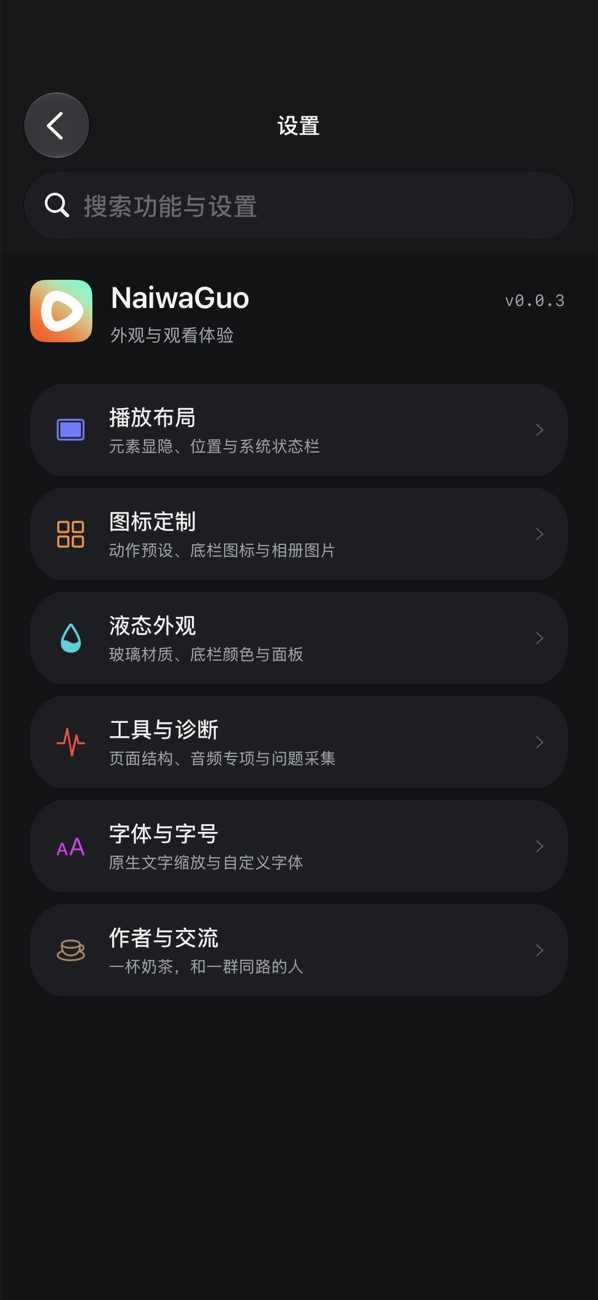
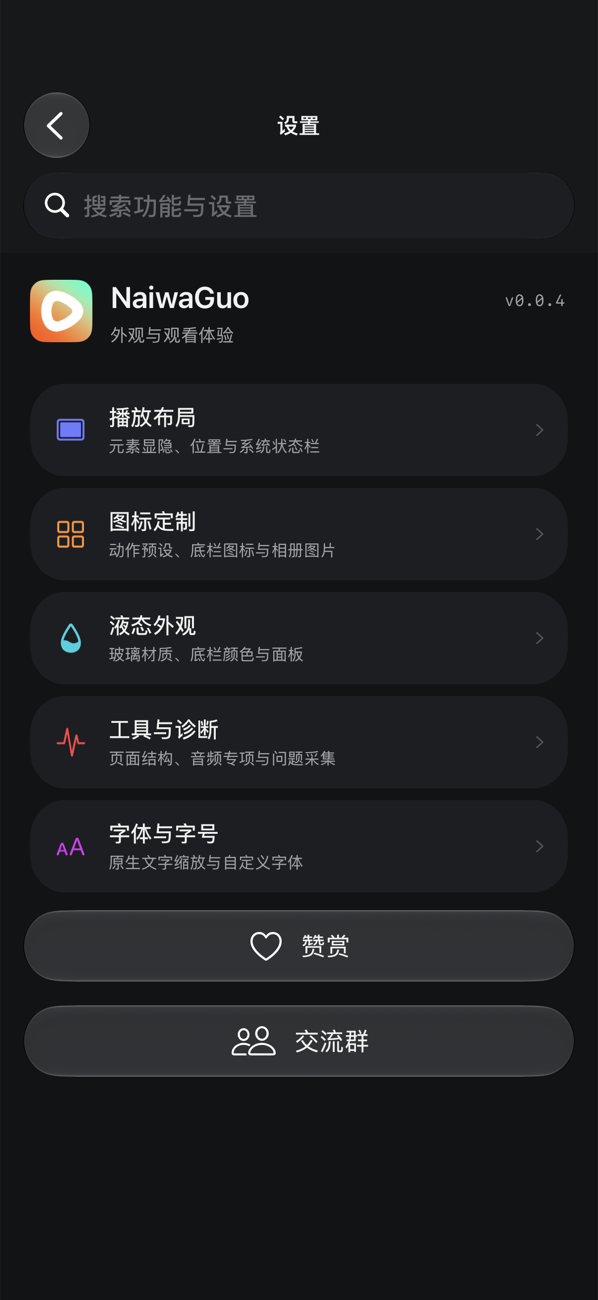
Add liquid support footer and keep deb packages local

diff --git a/src/NaiwaGuo.m b/src/NaiwaGuo.m
@@ -18,7 +18,7 @@ void NGDRegisterFLEXKingProvider(void);
 #import <math.h>
 
 static NSString *const NGPluginName = @"NaiwaGuo";
-static NSString *const NGVersion = @"0.0.3";
+static NSString *const NGVersion = @"0.0.4";
 static NSString *const NGHostBundleIdentifier = @"com.phoenix.video";
 static NSString *const NGHostExecutable = @"Eggplant";
 static NSString *const NGPrefix = @"com.naiwaguo.";
@@ -2015,10 +2015,7 @@ static NSArray<NSDictionary *> *NGSettingsGroups(void) {
         @{@"title": @"字体与字号", @"subtitle": @"原生文字缩放与自定义字体", @"symbol": @"textformat.size", @"color": UIColor.systemPurpleColor, @"rows": @[
             NGSettingRow(@"全局字号与自定义字体", @"比例调节、已安装字体和字体文件导入", @"textformat.size", nil, @"typography")
         ]},
-        @{@"title": @"作者与交流", @"subtitle": @"一杯奶茶，和一群同路的人", @"symbol": @"cup.and.saucer", @"color": UIColor.systemBrownColor, @"rows": @[
-            NGSettingRow(@"请作者喝杯奶茶吧", @"感谢支持每一次更新", @"cup.and.saucer", nil, @"sponsor"),
-            NGSettingRow(@"交流群", @"QQ 交流群 · TG 通知群与交流群", @"person.2", nil, @"community")
-        ]}
+
     ];
 }
 
@@ -2103,6 +2100,7 @@ static UIViewController *NGSettingsDestinationForAction(NSString *action) {
 @property(nonatomic, strong) NSArray<NSDictionary *> *searchResults;
 @property(nonatomic, copy) NSDictionary *pendingSearchMatch;
 @property(nonatomic, strong) NGBrandHeaderView *brandHeader;
+@property(nonatomic, strong) UIView *supportFooter;
 @end
 
 @implementation NGSettingsViewController
@@ -2133,7 +2131,7 @@ static UIViewController *NGSettingsDestinationForAction(NSString *action) {
     self.definesPresentationContext = YES;
     self.groups = NGSettingsGroups();
     self.searchResults = @[];
-    self.tableView.tableFooterView = [[UIView alloc] initWithFrame:CGRectZero];
+    [self installSupportFooter];
 }
 - (void)viewWillAppear:(BOOL)animated {
     [super viewWillAppear:animated];
@@ -2142,6 +2140,7 @@ static UIViewController *NGSettingsDestinationForAction(NSString *action) {
 }
 - (void)viewDidLayoutSubviews {
     [super viewDidLayoutSubviews];
+    [self layoutSupportFooter];
     if (self.tableView.tableHeaderView == self.brandHeader) {
         CGFloat width = self.tableView.bounds.size.width;
         CGFloat height = 80 + MAX(0,self.brandHeader.titleLabel.font.pointSize-20)*2;
@@ -2151,6 +2150,55 @@ static UIViewController *NGSettingsDestinationForAction(NSString *action) {
         }
     }
 }
+- (void)installSupportFooter {
+    UIView *footer = [[UIView alloc] initWithFrame:CGRectMake(0, 0, self.tableView.bounds.size.width, 136)];
+    footer.backgroundColor = UIColor.clearColor; footer.accessibilityIdentifier = @"NaiwaGuo.Settings.SupportFooter";
+    UIStackView *stack = [UIStackView new]; stack.axis = UILayoutConstraintAxisVertical; stack.spacing = 16;
+    stack.translatesAutoresizingMaskIntoConstraints = NO; [footer addSubview:stack];
+    NSArray *items = @[
+        @[@"赞赏", @"heart", @"sponsor"],
+        @[@"交流群", @"person.2", @"community"]
+    ];
+    for (NSArray *item in items) {
+        UIButton *button = [UIButton buttonWithType:UIButtonTypeSystem];
+        if (@available(iOS 26.0, *)) button.configuration = [UIButtonConfiguration glassButtonConfiguration];
+        else {
+            UIButtonConfiguration *fallback = [UIButtonConfiguration tintedButtonConfiguration];
+            fallback.background.backgroundColor = [NGSettingsSurface() colorWithAlphaComponent:0.72];
+            fallback.background.cornerRadius = 28; button.configuration = fallback;
+        }
+        UIButtonConfiguration *configuration = button.configuration;
+        configuration.title = item[0]; configuration.image = [UIImage systemImageNamed:item[1]];
+        configuration.imagePadding = 10; configuration.baseForegroundColor = NGSettingsInk();
+        configuration.contentInsets = NSDirectionalEdgeInsetsMake(13, 24, 13, 24);
+        button.configuration = configuration; button.accessibilityIdentifier = [@"NaiwaGuo.Settings.Support." stringByAppendingString:item[2]];
+        button.accessibilityLabel = item[0]; button.tag = [item[2] isEqualToString:@"sponsor"] ? 1 : 2;
+        [button addTarget:self action:@selector(supportFooterTapped:) forControlEvents:UIControlEventTouchUpInside];
+        [stack addArrangedSubview:button]; [button.heightAnchor constraintEqualToConstant:48].active = YES;
+    }
+    [NSLayoutConstraint activateConstraints:@[
+        [stack.leadingAnchor constraintEqualToAnchor:footer.leadingAnchor constant:16],
+        [stack.trailingAnchor constraintEqualToAnchor:footer.trailingAnchor constant:-16],
+        [stack.topAnchor constraintEqualToAnchor:footer.topAnchor constant:8],
+        [stack.bottomAnchor constraintEqualToAnchor:footer.bottomAnchor constant:-16]
+    ]];
+    self.tableView.tableFooterView = footer; self.supportFooter = footer;
+}
+- (void)layoutSupportFooter {
+    UIView *footer = self.supportFooter; if (!footer) return;
+    CGFloat width = self.tableView.bounds.size.width; if (width <= 0) return;
+    CGFloat height = 136;
+    if (footer.frame.size.width != width || footer.frame.size.height != height) {
+        footer.frame = CGRectMake(0, 0, width, height); self.tableView.tableFooterView = footer;
+    }
+}
+- (void)supportFooterTapped:(UIButton *)button {
+    if (self.navigationController.topViewController != self || self.navigationController.transitionCoordinator) return;
+    NGSettingsFeedback();
+    NSString *action = button.tag == 1 ? @"sponsor" : @"community";
+    UIViewController *destination = NGSettingsDestinationForAction(action);
+    if (destination) [self.navigationController pushViewController:destination animated:YES];
+}
 - (void)close {
     if (self.navigationController.viewControllers.firstObject != self) [self.navigationController popViewControllerAnimated:YES];
     else [self dismissViewControllerAnimated:YES completion:nil];
@@ -2158,7 +2206,7 @@ static UIViewController *NGSettingsDestinationForAction(NSString *action) {
 - (BOOL)isSearching { return self.navigationItem.searchController.isActive && self.navigationItem.searchController.searchBar.text.length > 0; }
 - (void)updateSearchResultsForSearchController:(UISearchController *)searchController {
     NSString *query = [searchController.searchBar.text stringByTrimmingCharactersInSet:NSCharacterSet.whitespaceAndNewlineCharacterSet];
-    if (!query.length) { self.searchResults = @[]; [self.tableView reloadData]; return; }
+    if (!query.length) { self.searchResults = @[]; self.tableView.tableFooterView = self.supportFooter; [self.tableView reloadData]; return; }
     NSMutableArray *matches = [NSMutableArray array];
     [self.groups enumerateObjectsUsingBlock:^(NSDictionary *group, NSUInteger groupIndex, BOOL *stopGroup) {
         for (NSDictionary *row in group[@"rows"]) {
@@ -2171,7 +2219,16 @@ static UIViewController *NGSettingsDestinationForAction(NSString *action) {
             }
         }
     }];
+    NSArray *supportRows = @[
+        NGSettingRow(@"赞赏", @"请作者喝杯奶茶吧", @"heart", nil, @"sponsor"),
+        NGSettingRow(@"交流群", @"QQ 交流群 · TG 通知群与交流群 · Telegram", @"person.2", nil, @"community")
+    ];
+    for (NSDictionary *row in supportRows) {
+        NSString *terms = [NSString stringWithFormat:@"%@ %@ %@",row[@"title"],row[@"subtitle"],[row[@"action"] isEqualToString:@"community"] ? @"TG 交流群" : @""];
+        if ([terms localizedCaseInsensitiveContainsString:query]) [matches addObject:@{@"group":@0,@"row":row,@"groupTitle":@"设置底部"}];
+    }
     self.searchResults = matches;
+    self.tableView.tableFooterView = [self isSearching] ? nil : self.supportFooter;
     [self.tableView reloadData];
 }
 - (NSInteger)numberOfSectionsInTableView:(UITableView *)tableView {
@@ -2234,7 +2291,9 @@ static UIViewController *NGSettingsDestinationForAction(NSString *action) {
     [self.navigationController pushViewController:destination animated:YES];
 }
 - (void)didDismissSearchController:(UISearchController *)searchController {
-    if (searchController != self.navigationItem.searchController || !self.pendingSearchMatch) return;
+    if (searchController != self.navigationItem.searchController) return;
+    self.tableView.tableFooterView = self.supportFooter;
+    if (!self.pendingSearchMatch) return;
     __weak typeof(self) weakSelf = self;
     // Let UIKit finish its own navigation-bar cleanup before starting the next transition.
     dispatch_async(dispatch_get_main_queue(), ^{ [weakSelf openPendingSearchResult]; });

diff --git a/src/Debug/NGDKeys.h b/src/Debug/NGDKeys.h
@@ -1,4 +1,4 @@
 #pragma once
 #import <Foundation/Foundation.h>
-#define NGD_VERSION @"0.0.3"
+#define NGD_VERSION @"0.0.4"
 #define NGDKeyDebugInspectorEnabled @"com.naiwaguo.debug.hud"

diff --git a/README-中文.md b/README-中文.md
@@ -2,7 +2,7 @@
 
 红果短剧 iOS 原生界面定制插件。简洁设置、跟随系统浅深色、彩色功能图标与黄绿色控件点缀。
 
-**当前版本：0.0.3 · 预发布，真机效果待补充。** 公开版本从 0.0.1 开始编号。基于红果 7.4.3 接口适配，目标为 com.phoenix.video / Eggplant。
+**当前版本：0.0.4 · 预发布，真机效果待补充。** 公开版本从 0.0.1 开始编号。基于红果 7.4.3 接口适配，目标为 com.phoenix.video / Eggplant。
 
 [下载版本](https://github.com/XIaodou0416/NaiwaGuo/releases) · [安装说明](INSTALL.md) · [验证记录](docs/VALIDATION.md) · [免责声明](DISCLAIMER.md)
 
@@ -24,7 +24,7 @@
 
 ## 功能界面
 
-以下是 **0.0.3 在 iOS 模拟器中实际运行的设置界面**，不代表红果真机效果。底栏演示使用合成背景。
+以下是 **0.0.4 在 iOS 模拟器中实际运行的设置界面**，不代表红果真机效果。底栏演示使用合成背景。
 
 <table>
 <tr><td align="center">设置 · 浅色</td><td align="center">设置 · 深色</td><td align="center">底栏与收缩</td></tr>
@@ -41,7 +41,7 @@
 
 **等待作者后续提供真机截图或录屏。** 收到后补充机型、iOS、红果及插件版本，再更新验证结论。目前没有把模拟器截图标成真机效果。
 
-## 0.0.3 更新
+## 0.0.4 更新
 
 - 处理字体重复写回与重入，避免在每次布局中反复应用字体；增加“我的 → 设置 → 字体”压力导航验证。
 - 扩展合集黑角识别，覆盖嵌套播放器及延迟设置的图片/尺寸，关闭功能或视图复用后恢复。
@@ -49,7 +49,7 @@
 - 移植 DYKiller 底栏普通/清透材质、原生收缩、尺寸及内容设置，独立圆钮改为红果搜索。
 - 替换旧调试入口和导出流程，加入同源页面/音频专项导出与红果适配探针。
 
-- 保留红果原图标，功能分类改为彩色；移除底部说明，按 NaiwaEase 布局重做赞赏与交流邀请页面。
+- 保留红果原图标，功能分类改为彩色；移除底部说明与“作者与交流”分类；设置底部改为“赞赏”“交流群”两个液态按钮，并按 NaiwaEase 布局重做内页。
 
 修复经过模拟宿主与原生 UIKit 回归；红果真机业务场景仍待反馈。
 
@@ -64,7 +64,7 @@
 
 ## 安装与开发
 
-发布页提供 dylib/plist、rootful/rootless deb、源码和校验和。不要同时加载多个版本；升级后完全退出红果再打开。详见 [安装说明](INSTALL.md)。
+GitHub 发布页提供 dylib/plist、源码和校验和，不上传 deb 或包含 deb 的整包。deb 可在本地构建。不要同时加载多个版本；升级后完全退出红果再打开。详见 [安装说明](INSTALL.md)。
 
 构建需要 macOS、带 iOS 26 或更新 SDK 的 Xcode、Python 3；测试需要 iPhone 模拟器。
 

diff --git a/README.md b/README.md
@@ -2,7 +2,7 @@
 
 红果短剧 iOS 原生界面定制插件。简洁设置、跟随系统浅深色、彩色功能图标与黄绿色控件点缀。
 
-**当前版本：0.0.3 · 预发布，真机效果待补充。** 公开版本从 0.0.1 开始编号。基于红果 7.4.3 接口适配，目标为 com.phoenix.video / Eggplant。
+**当前版本：0.0.4 · 预发布，真机效果待补充。** 公开版本从 0.0.1 开始编号。基于红果 7.4.3 接口适配，目标为 com.phoenix.video / Eggplant。
 
 [下载版本](https://github.com/XIaodou0416/NaiwaGuo/releases) · [安装说明](INSTALL.md) · [验证记录](docs/VALIDATION.md) · [免责声明](DISCLAIMER.md)
 
@@ -17,7 +17,6 @@
 | 图标定制 | 原版与四套动作图标；收藏/点赞按真实状态变化；支持相册图片和 SF Symbols，自定义图标优先。 |
 | 字体与字号 | 原生文字缩放 50%–100%；选择已安装字体、导入 TTF/OTF/TTC（最大 50 MB）；一键恢复。 |
 | 设置搜索 | 搜索功能后直达对应页面，开关项滚动定位并高亮。 |
-码
 
 液态玻璃及底栏收缩需要 **iOS 26+**，收缩限 iPhone。最低部署目标为 iOS 15；宿主版本、注入方式与系统私有接口会影响兼容性。字体覆盖 UILabel、UITextField、UITextView、YYLabel，不覆盖视频内文字、网页及 Compose/DanceUI 自绘文字。
 
@@ -26,7 +25,7 @@
 
 ## 安装与开发
 
-发布页提供 dylib/plist、rootful/rootless deb、源码和校验和。不要同时加载多个版本；升级后完全退出红果再打开。详见 [安装说明](INSTALL.md)。
+GitHub 发布页提供 dylib/plist、源码和校验和，不上传 deb 或包含 deb 的整包。deb 可在本地构建。不要同时加载多个版本；升级后完全退出红果再打开。详见 [安装说明](INSTALL.md)。
 
 构建需要 macOS、带 iOS 26 或更新 SDK 的 Xcode、Python 3；测试需要 iPhone 模拟器。
 

diff --git a/docs/VALIDATION.md b/docs/VALIDATION.md
@@ -1,4 +1,4 @@
-# 0.0.3 验证记录
+# 0.0.4 验证记录
 
 日期：2026-11-05。Xcode 27.0（27A266a），iOS 27.0 SDK；iPhone 18 Pro / iOS 27.0 模拟器。设备版为 arm64，最低部署目标 iOS 15，液态功能按系统版本启用。
 
@@ -13,7 +13,7 @@
 | 页面调试 | 多窗口/截图/图层/类声明/红果探针、ZIP 完整性、关闭恢复、临时文件清理通过。 |
 | 音频调试 | 真实 AudioQueue 通过旁路捕获合成 Float32 信号，输出音量设为 0；五秒窗口、三个时点、30 Hz 分析、WAV、Hook 覆盖及并发拒绝通过。 |
 | 调试入口 | 两种菜单、隐私说明、触摸穿透、关闭隐藏、key 窗口恢复、中途开启要求重启通过。 |
-| 展示与素材 | 15 张功能截图；顶部使用本机宿主原图标，功能分类彩色，插件 UI 无参考项目名称；赞赏码字节核对通过；玻璃赞赏卡、三张邀请卡、窄屏/横屏与链接回归通过。 |
+| 展示与素材 | 15 张功能截图；顶部使用本机宿主原图标，功能分类彩色，插件 UI 无参考项目名称；赞赏码字节核对通过；底部两个液态入口、玻璃赞赏卡、三张邀请卡、窄屏/横屏与链接回归通过。 |
 | 公开文件 | 未包含令牌、私钥、个人路径、宿主 IPA 或真实用户采集。 |
 
 可复核结果见 [validation.json](validation.json)，命令见 README。测试宿主用本地构造的业务控件模拟红果，截图中视频内容为合成示例；顶部图标从本机宿主读取，源码测试默认可使用原创占位图，不分发宿主图标资源包。

diff --git a/docs/RELEASE_NOTES.md b/docs/RELEASE_NOTES.md
@@ -1,12 +1,12 @@
-NaiwaGuo 0.0.3 预发布
+NaiwaGuo 0.0.4 预发布
 
 - 处理自定义字体重复布局、合集黑角漏检、右侧预设状态不同步。
 - DYKiller 同源液态底栏：普通/清透、左右自动收缩、尺寸与文字/图标/图文；圆钮打开红果搜索。
 - 替换调试工具：扳手、页面 ZIP、五秒音频专项 ZIP，适配红果字体/玻璃/底栏/Hook 探针。
-- 恢复红果原图标，分类图标彩色；移除底部说明，按 NaiwaEase 布局重做赞赏与交流群邀请卡片。
+- 恢复红果原图标，分类图标彩色；移除“作者与交流”分类，底部改为“赞赏”“交流群”两个液态按钮；内页采用玻璃赞赏与邀请卡片。
 - 补充功能介绍、免责声明、参考项目链接及模拟器功能界面截图。
 
-附件含 dylib/plist、rootful/rootless deb、源码和 SHA-256。验证见仓库 docs/VALIDATION.md。
+GitHub 附件提供 dylib/plist、源码和 SHA-256，不上传 deb 或包含 deb 的整包。deb 仅在本地构建。验证见仓库 docs/VALIDATION.md。
 
 **等待作者后续提供真机效果。** 当前截图为模拟器界面与合成背景；模拟宿主回归不代表所有真机业务验收，因此先标记预发布。
 

diff --git a/INSTALL.md b/INSTALL.md
@@ -1,10 +1,12 @@
-# 安装 NaiwaGuo 0.0.3
+# 安装 NaiwaGuo 0.0.4
 
-- rootful：com.naiwaguo.native_0.0.3_iphoneos-arm.deb。
-- rootless：com.naiwaguo.native_0.0.3_iphoneos-arm64.deb。
+GitHub 不提供 deb 或包含 deb 的整包。以下 deb 文件由本地构建生成；公开发布页提供源码、dylib/plist 与对应校验和。
+
+- rootful：com.naiwaguo.native_0.0.4_iphoneos-arm.deb。
+- rootless：com.naiwaguo.native_0.0.4_iphoneos-arm64.deb。
 - 签名注入：本版 NaiwaGuo.dylib 与 NaiwaGuo.plist；本次不提供重签宿主 IPA。
 
-覆盖 0.0.2 后完全退出红果，再重新打开。旧字体选项保留，修复直接生效；可在字体设置中恢复默认。底栏新增设置位于“液态外观 → 底栏外观与收缩”。
+覆盖旧版后完全退出红果，再重新打开。旧字体选项保留，修复直接生效；可在字体设置中恢复默认。底栏新增设置位于“液态外观 → 底栏外观与收缩”。
 
 原版本号曾按要求从 0.0.1 重置；从旧 0.7.x 安装时包管理器可能显示为降级。无需删除红果或清空数据。
 

diff --git a/docs/SCREENSHOTS.md b/docs/SCREENSHOTS.md
@@ -1,6 +1,6 @@
 # 功能界面截图
 
-顶部使用宿主红果原图标，功能入口按类别配色。以下均为 0.0.3 模拟器实际运行界面；底栏背景是合成内容。真机效果等待作者提供，届时单独记录机型与版本。
+顶部使用宿主红果原图标，功能入口按类别配色。以下均为 0.0.4 模拟器实际运行界面；底栏背景是合成内容。真机效果等待作者提供，届时单独记录机型与版本。
 
 | 普通液态 | 清透液态 |
 | --- | --- |
